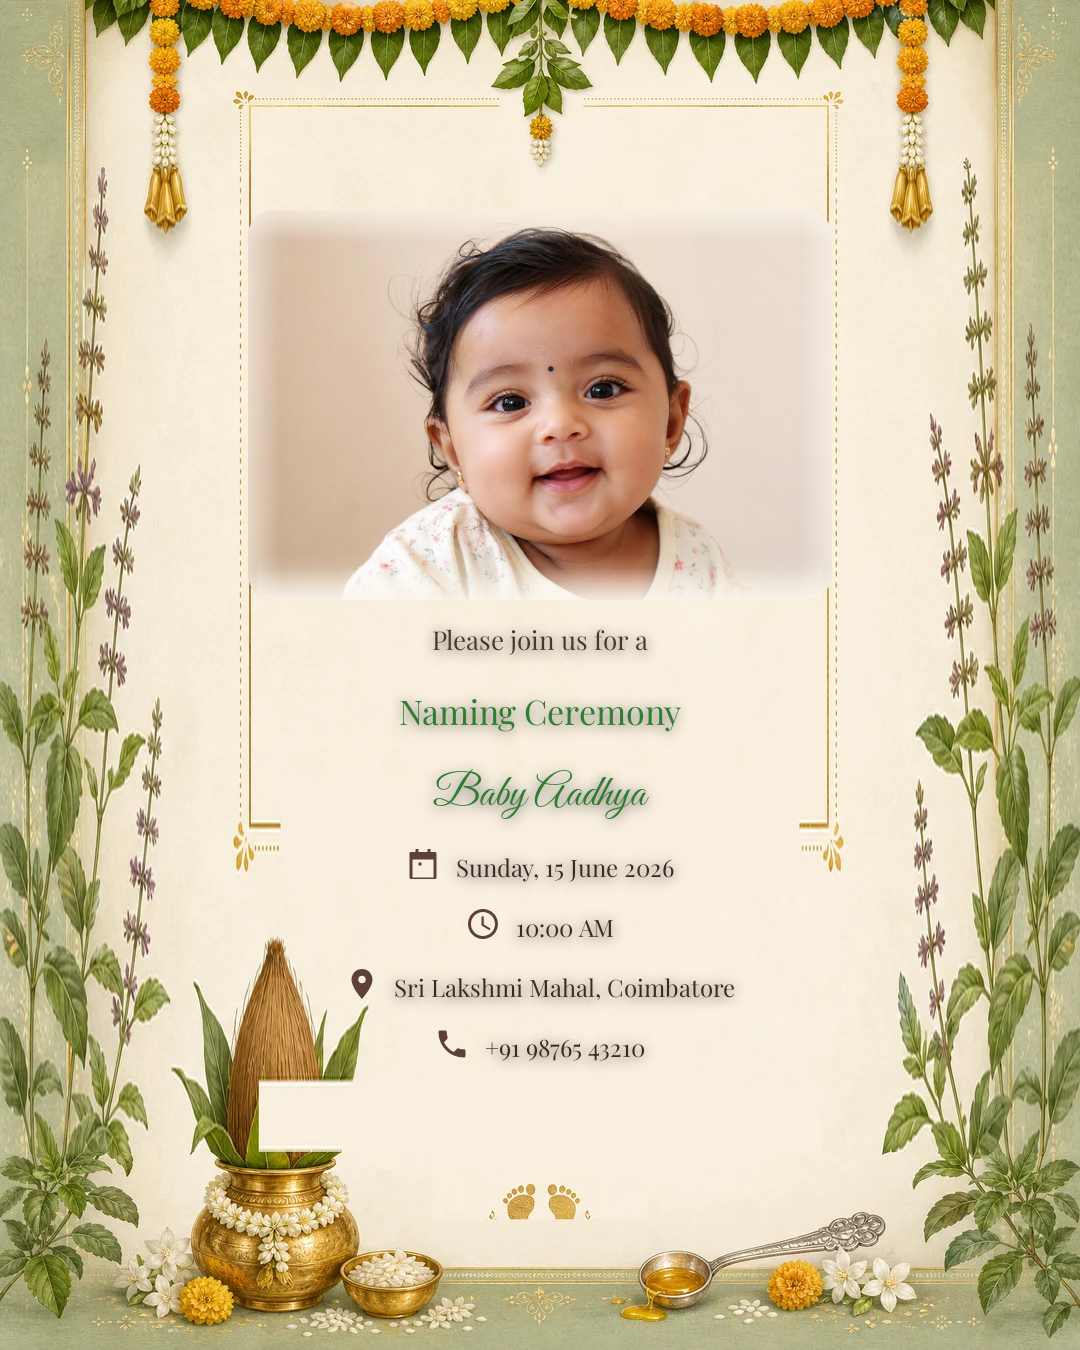
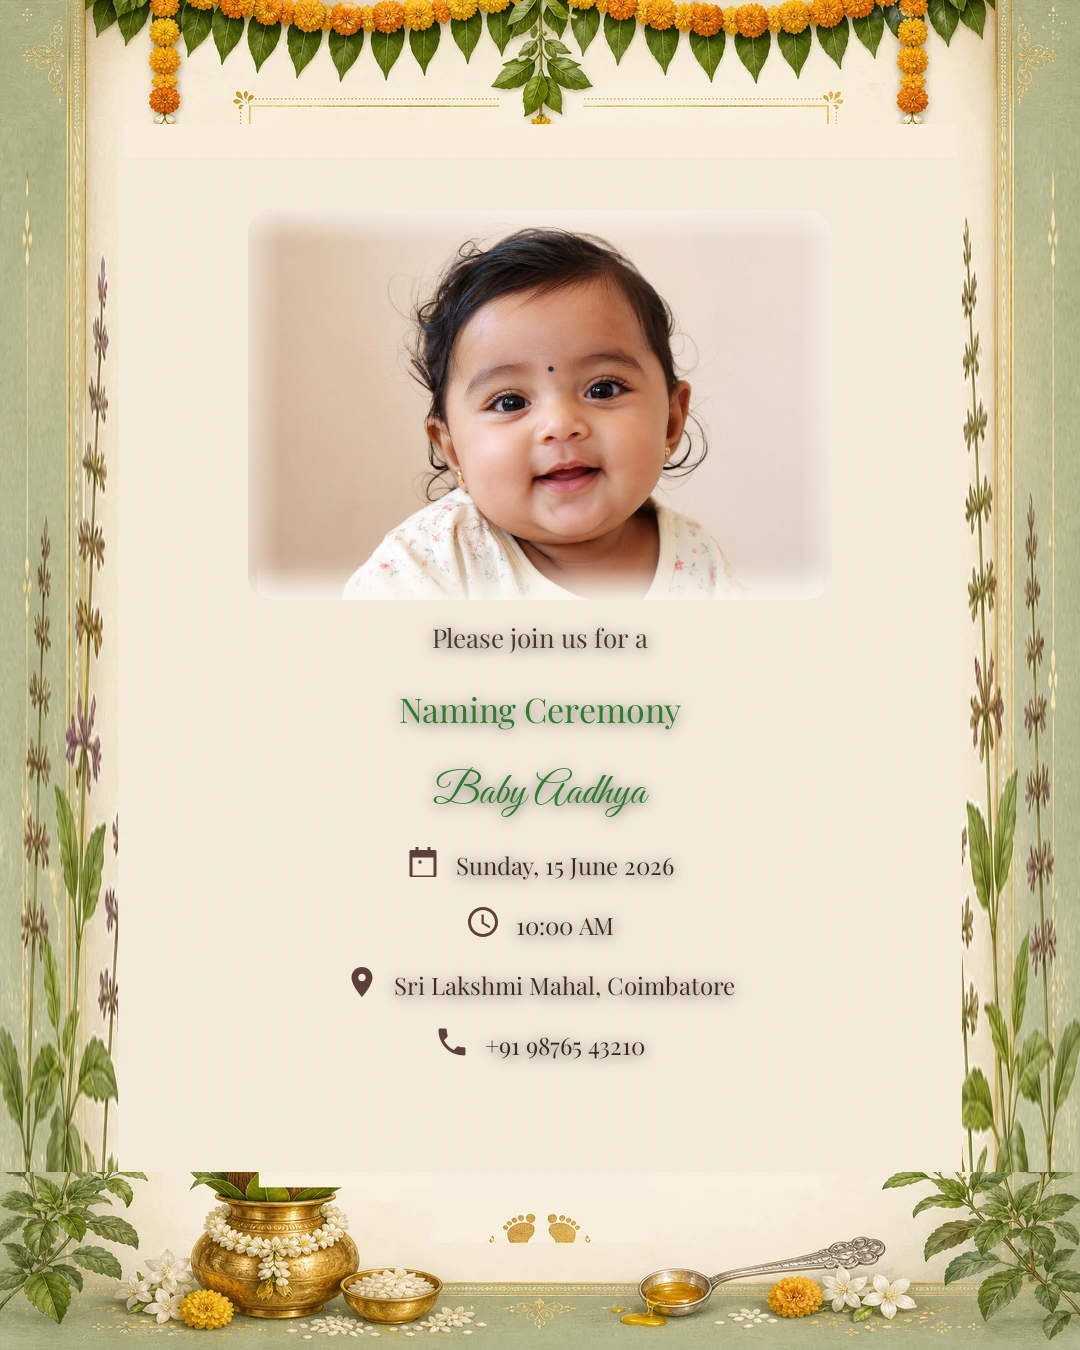
Regenerate engagement_05 and naming_05 as native portrait templates
Add tools/generate_portrait_05_templates.py with a dedicated compositor that
keeps a continuous cream center, places footer décor in one bottom band, and
avoids the embedded kalash panel / inner gold frame issues from landscape art.

Skip _05 in build_portrait_sources.py; update layout zones and samples.

diff --git a/app/src/main/java/com/vaangainvite/core/image/InvitationLayout.kt b/app/src/main/java/com/vaangainvite/core/image/InvitationLayout.kt
@@ -95,20 +95,19 @@ internal object InvitationLayout {
         "engagement_02" to photoCardTextZone,
         "engagement_03" to photoCardTextZone,
         "engagement_04" to photoCardTextZone,
-        // Mango Leaf Gold — kalash cluster at bottom; keep copy above vessel.
+        // Mango Leaf Gold — kalash sits in footer band only.
         "engagement_05" to photoCardTextZone.copy(
-            bottom = 1088f,
-            messageBottom = 1045f
+            bottom = 1095f,
+            messageBottom = 1055f
         ),
         "naming_01" to photoCardTextZone,
         "naming_02" to photoCardTextZone,
         "naming_03" to photoCardTextZone,
         "naming_04" to photoCardTextZone,
-        // Tulsi Paladai — no inner divider; footprints sit in lower footer only.
         "naming_05" to photoCardTextZone.copy(
-            bottom = 1095f,
-            messageBottom = 1055f,
-            photoTextGap = 18f
+            bottom = 1100f,
+            messageBottom = 1060f,
+            photoTextGap = 16f
         )
     )
 

diff --git a/tools/generate_portrait_05_templates.py b/tools/generate_portrait_05_templates.py
@@ -1,0 +1,171 @@
+#!/usr/bin/env python3
+"""
+Generate native 1080×1350 portrait sources for engagement_05 and naming_05.
+
+These two landscape masters embed a bottom kalash/footer inside the cream panel,
+which breaks the generic portrait compositor. This script rebuilds them with:
+  • Continuous cream center (photo + text)
+  • Top toran and side borders from the designed art
+  • Bottom décor confined to a single footer band
+
+    python3 tools/generate_portrait_05_templates.py
+"""
+
+from __future__ import annotations
+
+from pathlib import Path
+
+from PIL import Image, ImageDraw, ImageFilter
+
+TARGET_W = 1080
+TARGET_H = 1350
+SRC = Path(__file__).parent / "bg_sources"
+
+
+def sample_color(im: Image.Image, x: int | None = None, y: int | None = None) -> tuple[int, int, int]:
+    w, h = im.size
+    x = w // 2 if x is None else x
+    y = int(h * 0.38) if y is None else y
+    patch = im.crop((x - 20, y - 20, x + 20, y + 20))
+    pixels = list(
+        patch.get_flattened_data() if hasattr(patch, "get_flattened_data") else patch.getdata()
+    )
+    pixels.sort(key=lambda c: c[0] + c[1] + c[2])
+    return pixels[len(pixels) // 2]
+
+
+def add_parchment_texture(base: Image.Image, strength: float = 0.032) -> Image.Image:
+    noise = Image.effect_noise(base.size, 28).convert("L")
+    noise = noise.filter(ImageFilter.GaussianBlur(radius=1.0))
+    overlay = Image.merge("RGB", (noise, noise, noise))
+    return Image.blend(base, overlay, strength)
+
+
+def soft_edge_wash(panel: Image.Image, edge_color: tuple[int, int, int], strength: float = 0.07) -> Image.Image:
+    w, h = panel.size
+    wash = Image.new("RGB", (w, h), edge_color)
+    mask = Image.new("L", (w, h))
+    draw = ImageDraw.Draw(mask)
+    for x in range(w):
+        t = min(x / max(1, w * 0.16), (w - 1 - x) / max(1, w * 0.16), 1.0)
+        shade = int(255 * (1 - strength * (1 - t)))
+        draw.line([(x, 0), (x, h)], fill=shade)
+    return Image.composite(wash, panel, mask)
+
+
+def scale_to_width(im: Image.Image, width: int = TARGET_W) -> Image.Image:
+    scale = width / im.width
+    return im.resize((width, max(1, int(im.height * scale))), Image.Resampling.LANCZOS)
+
+
+def build_engagement_05(landscape: Image.Image) -> Image.Image:
+    """Mango Leaf Gold — marigold toran, mango sides, kalash footer only."""
+    scaled = scale_to_width(landscape)
+    sw, sh = scaled.size
+
+    top_h = 172
+    bottom_h = 162
+    side_w = 128
+    side_src_end = int(sh * 0.56)
+
+    cream = sample_color(scaled, sw // 2, int(sh * 0.34))
+    canvas = add_parchment_texture(Image.new("RGB", (TARGET_W, TARGET_H), cream))
+
+    mid_top = top_h
+    mid_bottom = TARGET_H - bottom_h
+    mid_h = mid_bottom - mid_top
+
+    canvas.paste(scaled.crop((0, 0, sw, top_h)), (0, 0))
+
+    if side_src_end > top_h and mid_h > 0:
+        left = scaled.crop((0, top_h, side_w, side_src_end)).resize((side_w, mid_h), Image.Resampling.LANCZOS)
+        right = scaled.crop((sw - side_w, top_h, sw, side_src_end)).resize((side_w, mid_h), Image.Resampling.LANCZOS)
+        canvas.paste(left, (0, mid_top))
+        canvas.paste(right, (TARGET_W - side_w, mid_top))
+
+    panel_w = sw - 2 * side_w
+    center = add_parchment_texture(Image.new("RGB", (panel_w, mid_h), cream))
+    canvas.paste(center, (side_w, mid_top))
+
+    # Footer: corner mango fronds + centered kalash on the same cream field.
+    footer = Image.new("RGB", (TARGET_W, bottom_h), cream)
+    for x0, crop_x in ((0, 0), (TARGET_W - side_w, sw - side_w)):
+        corner = scaled.crop((crop_x, int(sh * 0.46), crop_x + side_w, sh))
+        corner = corner.resize((side_w, bottom_h), Image.Resampling.LANCZOS)
+        footer.paste(corner, (x0, 0))
+
+    kalash = scaled.crop((int(sw * 0.31), int(sh * 0.755), int(sw * 0.69), int(sh * 0.97)))
+    target_kh = int(bottom_h * 0.78)
+    target_kw = max(1, int(kalash.width * target_kh / kalash.height))
+    kalash = kalash.resize((target_kw, target_kh), Image.Resampling.LANCZOS)
+    footer.paste(kalash, ((TARGET_W - target_kw) // 2, bottom_h - target_kh - 8))
+
+    canvas.paste(footer, (0, TARGET_H - bottom_h))
+    return canvas
+
+
+def build_naming_05(landscape: Image.Image) -> Image.Image:
+    """Tulsi Paladai Gold — tulsi sides, toran top, ritual footer, no inner divider."""
+    scaled = scale_to_width(landscape)
+    sw, sh = scaled.size
+
+    top_h = 128
+    bottom_h = 178
+    side_w = 118
+    side_src_end = int(sh * 0.54)
+
+    cream = sample_color(scaled, sw // 2, int(sh * 0.40))
+    sage = sample_color(scaled, 24, sh - 24)
+
+    canvas = Image.new("RGB", (TARGET_W, TARGET_H), sage)
+    canvas = add_parchment_texture(canvas, strength=0.02)
+
+    mid_top = top_h
+    mid_bottom = TARGET_H - bottom_h
+    mid_h = mid_bottom - mid_top
+
+    # Toran only — stop before the inner gold frame begins.
+    canvas.paste(scaled.crop((0, 0, sw, top_h)), (0, 0))
+
+    if side_src_end > top_h and mid_h > 0:
+        left = scaled.crop((0, top_h + 8, side_w, side_src_end)).resize((side_w, mid_h), Image.Resampling.LANCZOS)
+        right = scaled.crop((sw - side_w, top_h + 8, sw, side_src_end)).resize((side_w, mid_h), Image.Resampling.LANCZOS)
+        canvas.paste(left, (0, mid_top))
+        canvas.paste(right, (TARGET_W - side_w, mid_top))
+
+    panel_w = sw - 2 * side_w
+    center = add_parchment_texture(Image.new("RGB", (panel_w, mid_h), cream))
+    canvas.paste(center, (side_w, mid_top))
+
+    footer = scaled.crop((0, int(sh * 0.70), sw, sh))
+    footer = footer.resize((TARGET_W, bottom_h), Image.Resampling.LANCZOS)
+    canvas.paste(footer, (0, TARGET_H - bottom_h))
+
+    # Remove any residual inner gold frame lines from the imported top band.
+    draw = ImageDraw.Draw(canvas)
+    frame_left = side_w + 6
+    frame_right = TARGET_W - side_w - 6
+    draw.rectangle((frame_left, top_h - 4, frame_right, top_h + 28), fill=cream)
+    return canvas
+
+
+def main() -> int:
+    jobs = [
+        ("engagement_05", build_engagement_05),
+        ("naming_05", build_naming_05),
+    ]
+    for stem, builder in jobs:
+        backup = SRC / f"{stem}_source_landscape_backup.png"
+        src = SRC / f"{stem}_source.png"
+        if not backup.exists():
+            raise SystemExit(f"Missing landscape backup: {backup}")
+        portrait = builder(Image.open(backup).convert("RGB"))
+        if portrait.size != (TARGET_W, TARGET_H):
+            raise SystemExit(f"{stem} wrong size: {portrait.size}")
+        portrait.save(src, format="PNG", optimize=True)
+        print(f"generated {src.name} ({TARGET_W}×{TARGET_H})")
+    return 0
+
+
+if __name__ == "__main__":
+    raise SystemExit(main())

diff --git a/tools/build_portrait_sources.py b/tools/build_portrait_sources.py
@@ -119,6 +119,9 @@ def main() -> int:
     for src in sorted(args.source_dir.glob(f"{args.prefix}_*_source.png")):
         if "_landscape_backup" in src.name:
             continue
+        if src.name.endswith("_05_source.png"):
+            print(f"skip {src.name} (use generate_portrait_05_templates.py)")
+            continue
 
         if args.restore_landscape:
             restore_from_backup(src)

diff --git a/tools/patch_photo_card_sources.py b/tools/patch_photo_card_sources.py
@@ -1,5 +1,8 @@
 #!/usr/bin/env python3
-"""One-off art fixes on designed photo-card source PNGs before WebP conversion."""
+"""One-off art fixes on designed photo-card source PNGs before WebP conversion.
+
+engagement_05 and naming_05 use tools/generate_portrait_05_templates.py instead.
+"""
 
 from __future__ import annotations
 

diff --git a/docs/samples/engagement/README.md b/docs/samples/engagement/README.md
@@ -18,6 +18,12 @@ Five **illustrated WebP** backgrounds (`bg_engagement_01` … `05`) with:
 
 Portrait sources are built from landscape masters by **stretching the side borders and center cream panel** (top toran and bottom lotus keep their original height — no letterbox, no mirrored seams).
 
+**Exception:** `engagement_05` and `naming_05` use a dedicated compositor because their landscape art embeds footer décor inside the cream panel:
+
+```bash
+python3 tools/generate_portrait_05_templates.py
+```
+
 1. Landscape masters: `tools/bg_sources/engagement_XX_source_landscape_backup.png`
 2. Build 1080×1350 sources: `python3 tools/build_portrait_sources.py --prefix engagement --restore-landscape`
 3. WebP: `python3 tools/convert_photo_backgrounds.py --prefix engagement`

diff --git a/docs/samples/naming/README.md b/docs/samples/naming/README.md
@@ -15,3 +15,5 @@ Five **designed WebP** namakaran photo cards (same layout as engagement):
 | naming_05 | Tulsi Paladai Gold |
 
 Regenerate: `PREVIEW_OUTPUT_DIR=docs/samples/naming ./gradlew testDebugUnitTest --tests "NamingSampleExportTest"`
+
+For `naming_05`, rebuild the portrait source first: `python3 tools/generate_portrait_05_templates.py`
